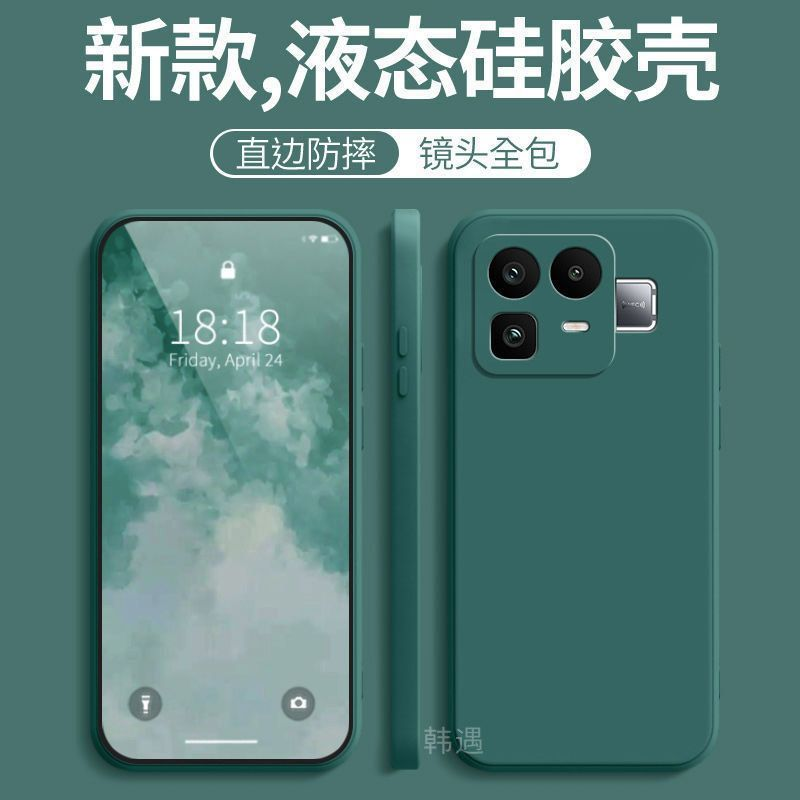
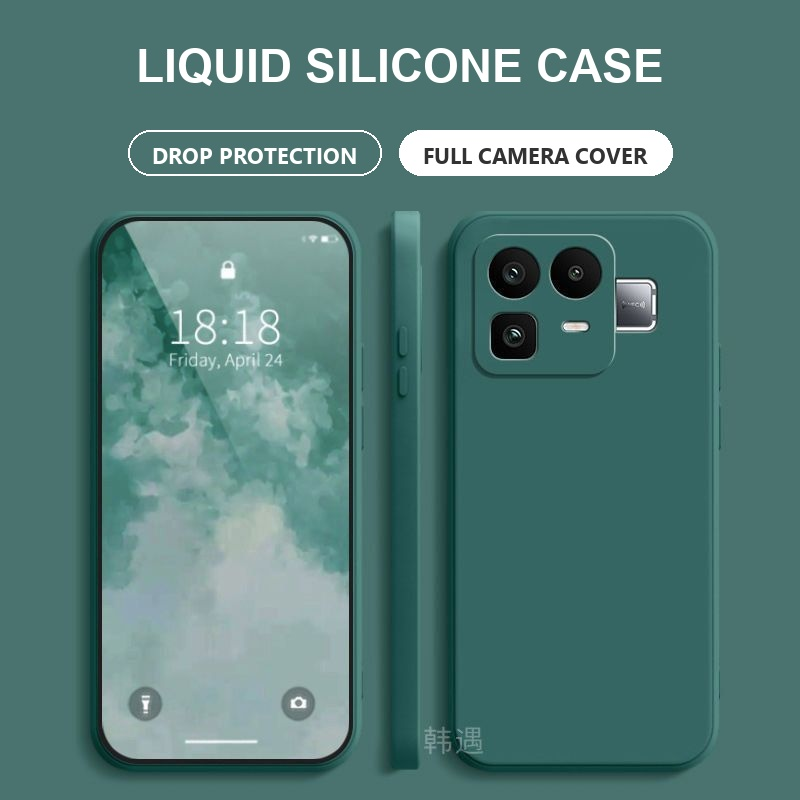
refactor: simplify to 2-folder structure (\galary and \sku) with in-place translation

Changed region(s): [[0.0938, 0.0, 0.9062, 0.25]]

diff --git a/scripts/translate_helper.py b/scripts/translate_helper.py
@@ -8,13 +8,16 @@ def get_font(font_path: str, size: int):
     except Exception:
         return ImageFont.load_default()
 
-def translate_top_banner_shelf(img_path: str, out_path: str):
+def translate_top_banner_shelf(img_path: str, out_path: Optional[str] = None):
     """
-    Translates product gallery images on white/gray backdrop (e.g. original_01):
+    Translates product gallery images on white/gray backdrop (e.g. galary_01.jpg):
     Replaces Chinese top banner with clean English typography:
     - OFFICIAL MATCHING CASE
     - ANTI-FINGERPRINT / LIQUID SILICONE
     """
+    if out_path is None:
+        out_path = img_path
+
     im = Image.open(img_path).convert("RGBA")
     draw = ImageDraw.Draw(im)
     
@@ -50,12 +53,15 @@ def translate_top_banner_shelf(img_path: str, out_path: str):
     im.convert("RGB").save(out_path, quality=95)
     return out_path
 
-def translate_top_banner_colored(img_path: str, out_path: str):
+def translate_top_banner_colored(img_path: str, out_path: Optional[str] = None):
     """
     Translates colored case images with top text banner:
     - LIQUID SILICONE CASE
     - [DROP PROTECTION] [FULL CAMERA COVER]
     """
+    if out_path is None:
+        out_path = img_path
+
     im = Image.open(img_path).convert("RGBA")
     draw = ImageDraw.Draw(im)
     
@@ -95,12 +101,15 @@ def translate_top_banner_colored(img_path: str, out_path: str):
     im.convert("RGB").save(out_path, quality=95)
     return out_path
 
-def translate_side_banner_blue(img_path: str, out_path: str):
+def translate_side_banner_blue(img_path: str, out_path: Optional[str] = None):
     """
     Translates transparent cases with right-side blue gradient banner:
     - OFFICIAL CASE
     - Features & Specification pills
     """
+    if out_path is None:
+        out_path = img_path
+
     im = Image.open(img_path).convert("RGB")
     width, height = im.size
     
@@ -135,31 +144,35 @@ def translate_side_banner_blue(img_path: str, out_path: str):
     im.save(out_path, quality=95)
     return out_path
 
-def translate_directory_images(orig_dir: str, sku_dir: str, trans_dir: str):
+def translate_in_place(galary_dir: str, sku_dir: str):
     """
-    Translates all images in orig_dir and sku_dir that contain non-English banners,
-    saving the translated versions into trans_dir.
+    Translates all images containing non-English text directly in-place,
+    replacing the original file in \\galary\\ and \\sku\\.
     """
-    os.makedirs(trans_dir, exist_ok=True)
-    
-    # Process original images
-    if os.path.exists(orig_dir):
-        for f in os.listdir(orig_dir):
-            src = os.path.join(orig_dir, f)
-            dst = os.path.join(trans_dir, f"translated_{f}")
-            if "original_01" in f:
-                translate_top_banner_shelf(src, dst)
-            elif "original_05" in f:
-                continue  # Clean image, no translation needed
-            elif f.startswith("original_"):
-                translate_top_banner_colored(src, dst)
-                
-    # Process SKU images
+    # 1. Process galary images
+    if os.path.exists(galary_dir):
+        for f in os.listdir(galary_dir):
+            if not f.lower().endswith(('.jpg', '.jpeg', '.png', '.webp')):
+                continue
+            path = os.path.join(galary_dir, f)
+            if "01" in f:
+                translate_top_banner_shelf(path, path)
+                print(f"    [✓] In-place translated showcase: {f}")
+            elif "05" in f:
+                print(f"    [i] Skipped clean image (no text): {f}")
+            else:
+                translate_top_banner_colored(path, path)
+                print(f"    [✓] In-place translated gallery: {f}")
+
+    # 2. Process SKU images
     if os.path.exists(sku_dir):
         for f in os.listdir(sku_dir):
-            src = os.path.join(sku_dir, f)
-            dst = os.path.join(trans_dir, f"translated_{f}")
-            if "-CL-" in f or "Transparent" in f or "sku_09" in f:
-                translate_side_banner_blue(src, dst)
+            if not f.lower().endswith(('.jpg', '.jpeg', '.png', '.webp')):
+                continue
+            path = os.path.join(sku_dir, f)
+            if "-CL-" in f or "Transparent" in f:
+                translate_side_banner_blue(path, path)
+                print(f"    [✓] In-place translated clear SKU: {f}")
             else:
-                translate_top_banner_colored(src, dst)
+                translate_top_banner_colored(path, path)
+                print(f"    [✓] In-place translated colored SKU: {f}")

diff --git a/scripts/downloader.py b/scripts/downloader.py
@@ -15,9 +15,8 @@ if sys.platform == "win32":
 
 from moveon_client import MoveOnClient, sanitize_filename
 from material_detector import detect_material
-from translate_helper import translate_directory_images
+from translate_helper import translate_in_place
 from sku_generator import generate_sku
-from catalog_builder import build_cataloge
 
 WORKSPACE_ROOT = os.path.abspath(os.path.join(os.path.dirname(__file__), ".."))
 
@@ -134,26 +133,24 @@ def main():
         model_name = model_meta['clean_name']
         model_clean = sanitize_filename(model_name)
         
-        # Build folder paths
+        # Build strictly 2 folder paths: \galary and \sku
         base_dir = os.path.join(WORKSPACE_ROOT, model_clean, material_clean)
-        orig_dir = os.path.join(base_dir, "original")
+        galary_dir = os.path.join(base_dir, "galary")
         sku_dir = os.path.join(base_dir, "sku")
-        trans_dir = os.path.join(base_dir, "translated")
 
-        os.makedirs(orig_dir, exist_ok=True)
+        os.makedirs(galary_dir, exist_ok=True)
         os.makedirs(sku_dir, exist_ok=True)
-        os.makedirs(trans_dir, exist_ok=True)
 
         print(f"\n" + "-"*60)
         print(f"Processing Model: [{model_clean}] | Material: [{material_clean}]")
         print(f"Target Directory: {base_dir}")
         print("-"*60)
 
-        # Download Gallery Images -> \original\
-        print(f"[*] Downloading {len(gallery_images)} gallery images into \\original\\...")
+        # Download Gallery Images -> \galary\
+        print(f"[*] Downloading {len(gallery_images)} gallery images into \\galary\\...")
         for idx, img_url in enumerate(gallery_images, 1):
             ext = os.path.splitext(img_url.split('?')[0])[-1] or ".jpg"
-            dest_file = os.path.join(orig_dir, f"original_{idx:02d}{ext}")
+            dest_file = os.path.join(galary_dir, f"galary_{idx:02d}{ext}")
             download_file(img_url, dest_file)
             print(f"    [+] Saved: {dest_file}")
 
@@ -182,21 +179,13 @@ def main():
             download_file(img_url, dest_file)
             print(f"    [+] Saved SKU: {sku_code} -> {dest_file}")
 
-        # Translate non-English images -> \translated\
-        print(f"\n[*] Translating non-English text to English into \\translated\\...")
-        translate_directory_images(orig_dir, sku_dir, trans_dir)
-
-        # Build clean deduplicated cataloge -> \cataloge\
-        print(f"\n[*] Building clean catalog (original no text + translated, deduplicated)...")
-        cat_result = build_cataloge(base_dir, root_cataloge=True)
-        print(f"    [+] Cataloge generated: {cat_result['total_catalog_images']} unique images")
-        print(f"    [+] Duplicates removed: {len(cat_result['duplicates_removed'])}")
+        # In-place translation: replace original non-English images directly
+        print(f"\n[*] In-place translating non-English images in \\galary\\ and \\sku\\...")
+        translate_in_place(galary_dir, sku_dir)
 
         print(f"\n[✓] Completed model [{model_clean}]:")
-        print(f"    Original Images:   {len(os.listdir(orig_dir))} in {orig_dir}")
-        print(f"    SKU Images:        {len(os.listdir(sku_dir))} in {sku_dir}")
-        print(f"    Translated Images: {len(os.listdir(trans_dir))} in {trans_dir}")
-        print(f"    Cataloge Images:   {cat_result['total_catalog_images']} in {cat_result['catalog_dir']}")
+        print(f"    Galary Images:  {len(os.listdir(galary_dir))} in {galary_dir}")
+        print(f"    SKU Images:     {len(os.listdir(sku_dir))} in {sku_dir}")
 
     print("\n" + "="*60)
     print("  ALL DOWNLOADS & TRANSLATIONS COMPLETED SUCCESSFULLY")

diff --git a/GEMINI.md b/GEMINI.md
@@ -10,15 +10,12 @@
 - Only process the exact MoveOn URL provided by the user.
 - Never crawl, pre-fetch, or spider any unprovided, recommended, or related links.
 
-## 3. Storage Hierarchy
+## 3. Storage Hierarchy (2-Folder Structure)
 - Plan PDF: `plan/plan.pdf`
 - Python Scripts: `scripts/`
 - Downloaded Assets: `[phone model]/[material]/`
-  - `original/`: Product showcase & gallery images (`original_01.jpg`, ...).
-  - `sku/`: Color/variant cover images named with the custom SKU format (`[SKU].jpg`).
-  - `translated/`: Images with non-English text translated to English (`translated_[SKU].jpg`).
-  - `cataloge/`: Clean original photos (no text) + translated photos with all duplicates removed.
-- Workspace Cataloge: `cataloge/` containing all unique ready-to-use catalog images across all models.
+  - `galary/`: Product showcase & gallery images (`galary_01.jpg`, `galary_02.jpg`, ...). Any non-English text is translated in-place directly replacing the original picture.
+  - `sku/`: Color/variant cover images named with the custom SKU format (`[SKU].jpg`, e.g., `RN8-SIL-WT-S.jpg`). Any non-English text is translated in-place directly replacing the original picture.
 
 ## 4. Custom SKU Generation Standard
 - Format: `[model abbreviation]-[material abbreviation]-[color abbreviation]-[print abbreviation]`
